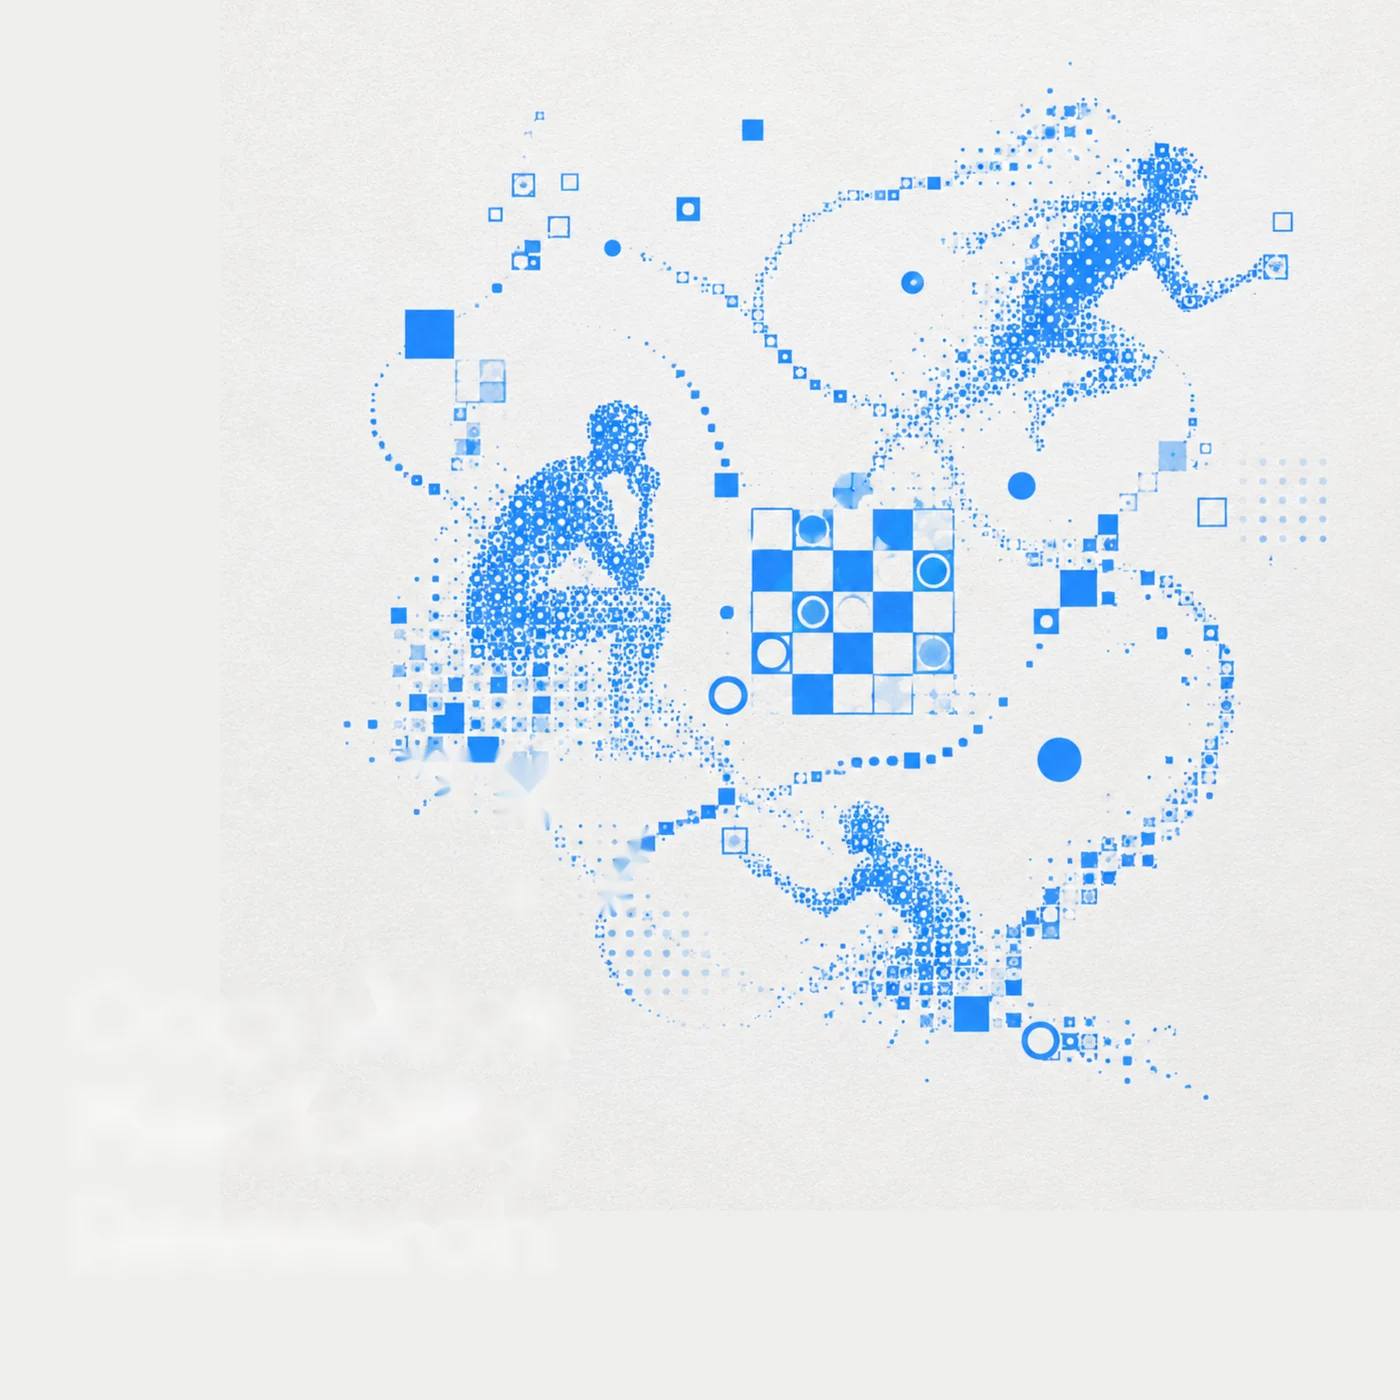
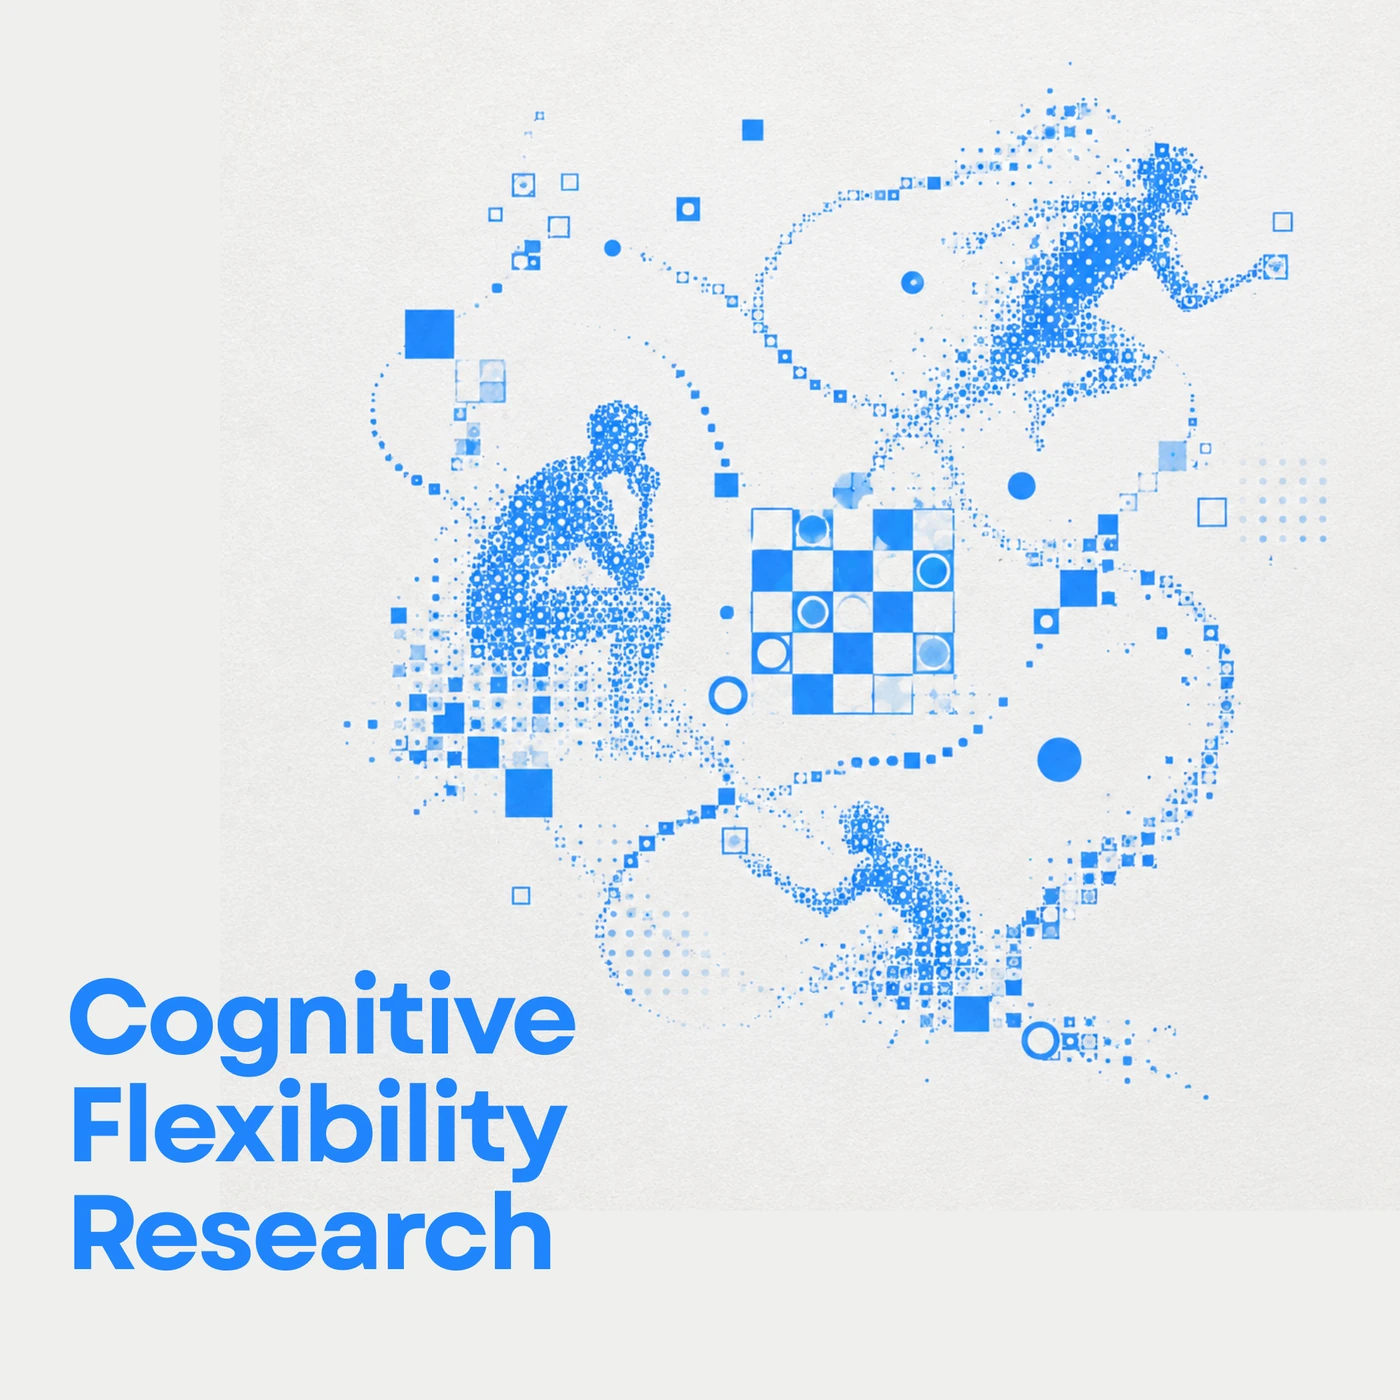
Restore overlay type on the three jacket covers
The vinyl-label change was type-free, but the supplied jacket images include titles. Keep the full cover art — including “Cognitive Flexibility Research,” “SYNTHETIC SYNESTHESIA,” and “Paramount Internship” — and cache-bust so the previous inpainted files are not reused.

Changed region(s): [[0.0307, 0.6757, 0.43, 0.9214], [0.2764, 0.5221, 0.3993, 0.5836], [0.43, 0.5836, 0.4607, 0.645]]

diff --git a/index.html b/index.html
@@ -276,11 +276,11 @@ nav a:hover{opacity:1}nav a:focus-visible{outline:2px solid var(--lav);outline-o
 .sleeve .inote{position:absolute;inset:0;display:flex;align-items:center;justify-content:center;font-family:"Helvetica Neue",Helvetica,Arial,-apple-system,sans-serif;font-size:0.55rem;color:rgba(236,232,242,0.45);pointer-events:none}
 
 .sl-body{background:linear-gradient(165deg,#3a2630 0%,#241620 60%,#2a1016 100%)}
-.sl-syn{background:url("covers/synthetic_synesthesia.webp") center/cover no-repeat,#1f1820}
-.sl-para{background:url("covers/paramount_internship.webp") center/cover no-repeat,#191c24}
+.sl-syn{background:url("covers/synthetic_synesthesia.webp?v=2") center/100% 100% no-repeat,#1f1820}
+.sl-para{background:url("covers/paramount_internship.webp?v=2") center/100% 100% no-repeat,#191c24}
 .sl-eng{background:linear-gradient(160deg,#251a22 0%,#1a1620 50%,#280f17 100%)}
 .sl-films{background:linear-gradient(155deg,#33242c 0%,#1c1820 52%,#1a2430 100%)}
-.sl-utdt{background:url("covers/body_says_otherwise.webp") center/cover no-repeat,#162028}
+.sl-utdt{background:url("covers/body_says_otherwise.webp?v=2") center/100% 100% no-repeat,#162028}
 .sl-para .inote,.sl-syn .inote,.sl-utdt .inote{opacity:0}
 .sl-para .stitle,.sl-syn .stitle,.sl-utdt .stitle{color:#fff;text-shadow:0 1px 10px rgba(0,0,0,.75)}
 .lbl-body{background-image:url("vinyl-labels/the_body_conducts.webp")}
@@ -1322,8 +1322,8 @@ onScroll();
   <canvas id="tt-canvas" width="1" height="1"></canvas>
   <div id="tt-sleeve-slot"></div>
 </div>
-<script type="module" src="turntable-transition.js?v=4"></script>
-<script type="module" src="work-covers-3d.js?v=4"></script>
+<script type="module" src="turntable-transition.js?v=5"></script>
+<script type="module" src="work-covers-3d.js?v=5"></script>
   
 <!-- ============================================================
      PASTE #4 — load the controller as a module.

diff --git a/vinyl-glb.js b/vinyl-glb.js
@@ -14,9 +14,9 @@ export const COVER_GLBS = {
 };
 
 export const COVER_IMAGES = {
-  body_says_otherwise: new URL('./covers/body_says_otherwise.webp', import.meta.url).href,
-  synthetic_synesthesia: new URL('./covers/synthetic_synesthesia.webp', import.meta.url).href,
-  paramount_internship: new URL('./covers/paramount_internship.webp', import.meta.url).href
+  body_says_otherwise: new URL('./covers/body_says_otherwise.webp', import.meta.url).href + '?v=2',
+  synthetic_synesthesia: new URL('./covers/synthetic_synesthesia.webp', import.meta.url).href + '?v=2',
+  paramount_internship: new URL('./covers/paramount_internship.webp', import.meta.url).href + '?v=2'
 };
 
 const loader = new GLTFLoader();
@@ -116,6 +116,9 @@ function loadImageJacket(url) {
       (tex) => {
         tex.colorSpace = THREE.SRGBColorSpace;
         tex.anisotropy = 8;
+        tex.wrapS = tex.wrapT = THREE.ClampToEdgeWrapping;
+        tex.minFilter = THREE.LinearMipmapLinearFilter;
+        tex.magFilter = THREE.LinearFilter;
         tex.needsUpdate = true;
         const edge = new THREE.MeshStandardMaterial({
           color: 0x171410, roughness: 0.78, metalness: 0.04
